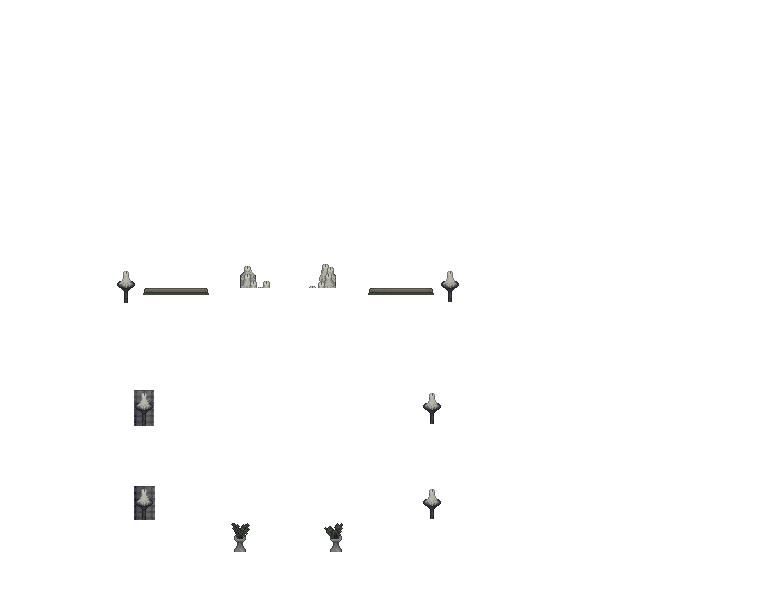
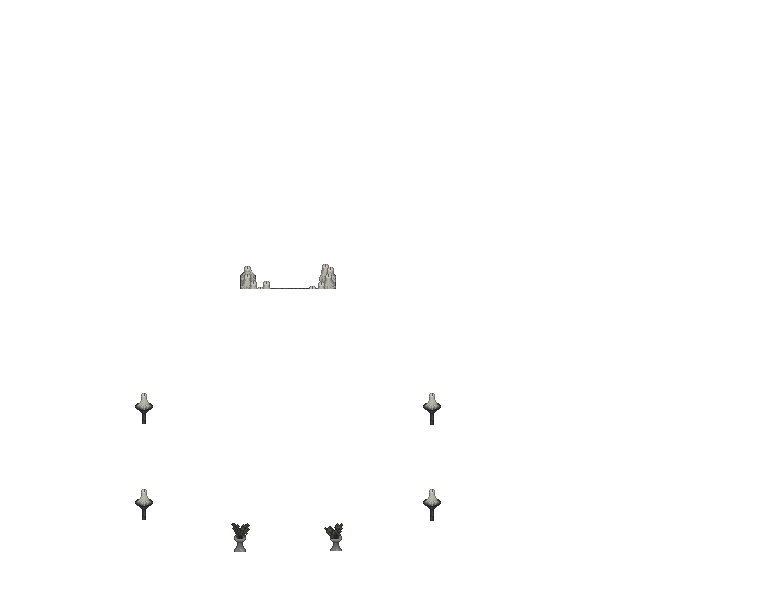
All the FGs added.

diff --git a/Games/Story-RPG/New/world.py b/Games/Story-RPG/New/world.py
@@ -9,7 +9,7 @@ from kivy.properties import ObjectProperty, ListProperty, StringProperty, Numeri
 from path import Path
 import json
 
-from tools import circle_collide
+from tools import circle_collide, scale_image
 
 class WorldElement(Image):
     name = StringProperty("")
@@ -102,20 +102,27 @@ class World(RelativeLayout):
     def load_scene(self, scene, part, first=False):
         if first:
             self.load_walls(scene)
-            self.bg = WorldElement(source=self.worlddict[scene][part]["bg"])
-            self.fg = WorldElement(source=self.worlddict[scene][part]["fg"])
-            self.bg_clutter = WorldElement(source=self.worlddict[scene][part]["clutter"])
+            self.bg = WorldElement(texture=scale_image(self.worlddict[scene][part]["bg"]))
+            self.fg = WorldElement(texture=scale_image(self.worlddict[scene][part]["fg"]))
+            self.bg_clutter = WorldElement(texture=scale_image(self.worlddict[scene][part]["clutter"]))
+            self.bg.size = self.bg.texture.size
+            self.fg.size = self.fg.texture.size
+            self.bg_clutter.size = self.bg_clutter.texture.size
             self.add_widget(self.bg)
             self.add_widget(self.bg_clutter)
         else:
-            self.bg.source = self.worlddict[scene][part]["bg"]
-            self.bg_clutter.source = self.worlddict[scene][part]["clutter"]
+            self.bg.texture = scale_image(self.worlddict[scene][part]["bg"])
+            self.fg = WorldElement(texture=scale_image(self.worlddict[scene][part]["fg"]))
+            self.bg_clutter.texture = scale_image(self.worlddict[scene][part]["clutter"])
+            self.bg.size = self.bg.texture.size
+            self.fg.size = self.fg.texture.size
+            self.bg_clutter.size = self.bg_clutter.texture.size
             self.add_npcs(self.parent.npcs.npcgroup)
 
         adjust = self.worlddict[scene][part]["adjust"]
         p = self.walls[scene][part]["bg"]["points"]
         w, h = self.walls[scene][part]["bg"]["size"]
-        self.size = [w*3, h*3]
+        #self.size = [w*3, h*3]
         self.act_walls = self.turn_points(p, h, adjust)
         self.linelist = self._make_linelist(self.act_walls)
 

diff --git a/Games/Story-RPG/New/Test/image_check.py b/Games/Story-RPG/New/Test/image_check.py
@@ -4,25 +4,44 @@ kivy.require("1.9.0")
 
 from kivy.app import App
 from kivy.uix.widget import Widget
-from kivy.uix.image import Image
+from kivy.uix.image import Image as KImage
 from kivy.graphics import Rectangle
+from kivy.graphics.texture import Texture
 from kivy.clock import Clock
-from kivy.properties import ObjectProperty
 
-# Need to bring in Game Files now.
+from PIL import Image
+import numpy as np
 
 class Main(Widget):
-    foreground = ObjectProperty(None)
-    background = ObjectProperty(None)
 
     def setup(self):
-        mn = Image(source="imgs/main.png").texture
-        #fg = Image(source="imgs/foreground_.png").texture
-        bg = Image(source="imgs/background_.png").texture
+        fg_image = Image.open("imgs/foreground.png")
+        fg_size = fg_image.size
+        fg_size = (fg_size[0]*3, fg_size[1]*3)
+        fg_image = fg_image.resize(fg_size)
+
+        #arr1 = np.fromstring(fg_image.tobytes(), np.uint8)
+        fg = Texture.create(size=fg_size)
+        fg.blit_buffer(fg_image.tobytes(), colorfmt="rgba", bufferfmt="ubyte")
+
+        #fg_image.save("imgs/fg.png")
+        #fg = KImage(source="imgs/fg.png").texture
+
+        bg_image = Image.open("imgs/background.png")
+        bg_size = bg_image.size
+        bg_size = (bg_size[0]*3, bg_size[1]*3)
+        bg_image = bg_image.resize(bg_size)
+
+        #arr2 = np.fromstring(bg_image.tobytes(), np.uint8)
+        bg = Texture.create(size=bg_size)
+        bg.blit_buffer(bg_image.tobytes(), colorfmt="rgba", bufferfmt="ubyte")
+
+        #bg_image.save("imgs/bg.png")
+        #bg = KImage(source="imgs/bg.png").texture
+
         with self.canvas:
-            Rectangle(texture=mn, pos=[0,200], size=mn.size)
-            Rectangle(texture=bg, pos=[0,200], size=bg.size)
-        #    Rectangle(texture=fg, pos=[0,200], size=fg.size)
+            Rectangle(texture=bg, pos=[-200, -400], size=bg.size)
+            Rectangle(texture=fg, pos=[-200, -400], size=fg.size)
 
     def update(self, dt):
         pass

diff --git a/Games/Story-RPG/New/Test/unittest_prototype.py b/Games/Story-RPG/New/Test/unittest_prototype.py
@@ -1,0 +1,38 @@
+from functools import wraps
+import time
+
+RUNTEST = False
+
+def _print(f, fname):
+    print("{} returns: {}".format(fname, f))
+    return f
+
+def log(run):
+        def decrated_function(func):
+            if run:
+                f_name = func.__name__
+                ts = time.time()
+                @wraps(func)
+                def wrapper(*args, **kw):
+                    if len(args) > 0:
+                        print("Positional Arguments of function {}: ".format(f_name))
+                        for i in args:
+                            print("Type: {} Value: {}".format(type(i), i))
+                    if len(kw) > 0:
+                        print("Key Word Arguments of function {}: ".format(f_name))
+                        for j in kw:
+                            print("Type: {} Key word: {} Value: {}".format(type(j), j, kw[j]))
+                    return _print(func(*args, **kw), f_name)
+                te = time.time()
+                print("Timing of function {}: ".format(f_name), te - ts)
+                return wrapper
+            else:
+                return func
+        return decrated_function
+
+@log(RUNTEST)
+def test_func(a, b, alist=[]):
+    c = [a+b for i in range(10)]
+    return c
+
+test_func(1, 2, alist=[])

diff --git a/Games/Tools/Line-editor/main.py b/Games/Tools/Line-editor/main.py
@@ -7,7 +7,7 @@ from gui import Menu
 
 BLACK = (0,0,0)
 WHITE = (255,255,255)
-MAP = "main"
+MAP = "basement"
 
 class Main(Template):
     def __init__(self, size):
@@ -142,6 +142,12 @@ class Main(Template):
         self.new_rect = None
         self.rect_started = False
 
+    def erase_rects(self, arg):
+        if arg == "last":
+            self.rect_list.pop()
+        elif arg == "all":
+            self.rect_list = []
+
     def save_rects(self):
         print("Saving rects to ", "./saves/{}_clutter.json".format(self.current_map))
         rects = {self.current_map:{}}
@@ -180,7 +186,6 @@ class Main(Template):
         for lines in self.linelist:
             pg.draw.lines(self.surface, WHITE, True, [(point.x, point.y) for point in lines])
 
-
         # Blitting to Screen.
         self.screen.blit(self.surface, self.xy)
 
@@ -200,6 +205,11 @@ class Main(Template):
             self.move["right"] = True
         if key in (K_LEFT, K_a):
             self.move["left"] = True
+        if key == K_BACKSPACE:
+            self.erase_rects("last")
+        if key == K_RETURN:
+            self.erase_rects("all")
+
 
     def key_up(self, key):
         if key in (K_UP, K_w):

diff --git a/Games/Story-RPG/New/tools.py b/Games/Story-RPG/New/tools.py
@@ -1,9 +1,10 @@
 #!/usr/bin/python3
 # python -m kivy.atlas myatlas 160x256 *.png
-from PIL import Image
+from PIL import Image as Img
 from path import Path
 from kivy.atlas import Atlas
 from kivy.vector import Vector
+from kivy.graphics.texture import Texture
 
 
 def circle_collide(w1, w2):
@@ -59,8 +60,19 @@ def make_atlas(folder):
         Atlas.create("images/{}".format(dirc.basename()), dirc.files("*.png"), [160,256])
 
 
+def scale_image(filename, multiplier=3):
 
+    img = Img.open(filename)
+    img = img.transpose(Img.FLIP_TOP_BOTTOM)
+    size = img.size
+    new_size = (size[0]*multiplier, size[1]*multiplier)
+    img = img.resize(new_size)
+    image = Texture.create(size=new_size)
+    image.blit_buffer(img.tobytes(), colorfmt="rgba", bufferfmt="ubyte")
+    return image
 
 if __name__ == "__main__":
     #divide_all("images/stored")
-    make_atlas("images/crops")
+    #make_atlas("images/crops")
+    #clear_temp()
+    pass

diff --git a/Games/Story-RPG/New/entities.py b/Games/Story-RPG/New/entities.py
@@ -1,5 +1,6 @@
 #!/usr/bin/python3
 from kivy.uix.widget import Widget
+from kivy.uix.image import Image
 from kivy.vector import Vector
 from kivy.atlas import Atlas
 from kivy.properties import ListProperty, BooleanProperty, ObjectProperty, DictProperty, StringProperty, NumericProperty
@@ -28,6 +29,8 @@ class Entity(Widget):
     collided_with = StringProperty("")
     movement_reversed = BooleanProperty(False)
     collide_widget = ObjectProperty(None)
+    entsize = ListProperty([0,0])
+    multiplier = NumericProperty(3)
 
     def place(self, x, y):
         self.pos = self.to_widget(x, y)
@@ -52,6 +55,7 @@ class Entity(Widget):
         if pose == "idle":
             num = 1
         self.frame = self.atlas["{}{}".format(pose, num)]
+        self.entsize = [self.frame.size[0]*self.multiplier, self.frame.size[1]*self.multiplier]
 
     def _num(self):
         while True:

diff --git a/Games/Story-RPG/New/Test/test.py b/Games/Story-RPG/New/Test/test.py
@@ -10,7 +10,7 @@ class Aligned(Factory.Widget):
         fg_size = (fg.size[0]*2, fg.size[1]*2)
         bg_size = (bg.size[0]*2, bg.size[1]*2)
         with self.canvas:
-            Factory.Rectangle(size=fg_size, texture=fg, pos=(0, 0))
-            Factory.Rectangle(size=bg_size, texture=bg, pos=(0, 1))
+            Factory.Rectangle(size=fg.size, texture=fg, pos=(0, 0))
+            Factory.Rectangle(size=bg.size, texture=bg, pos=(0, 0))
 
 runTouchApp(Aligned())
